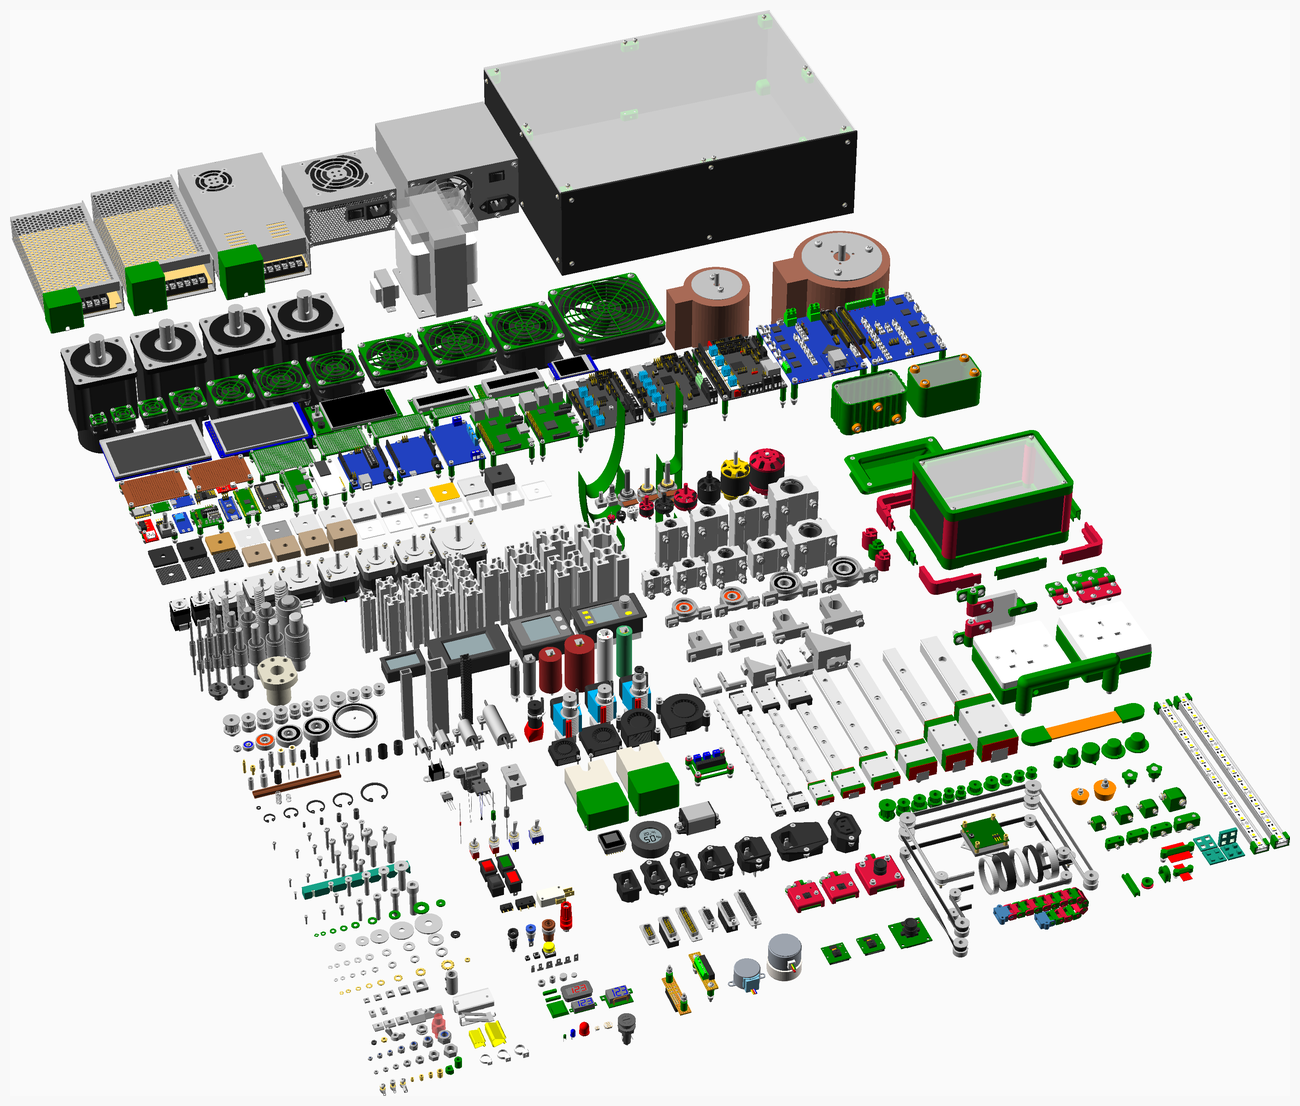
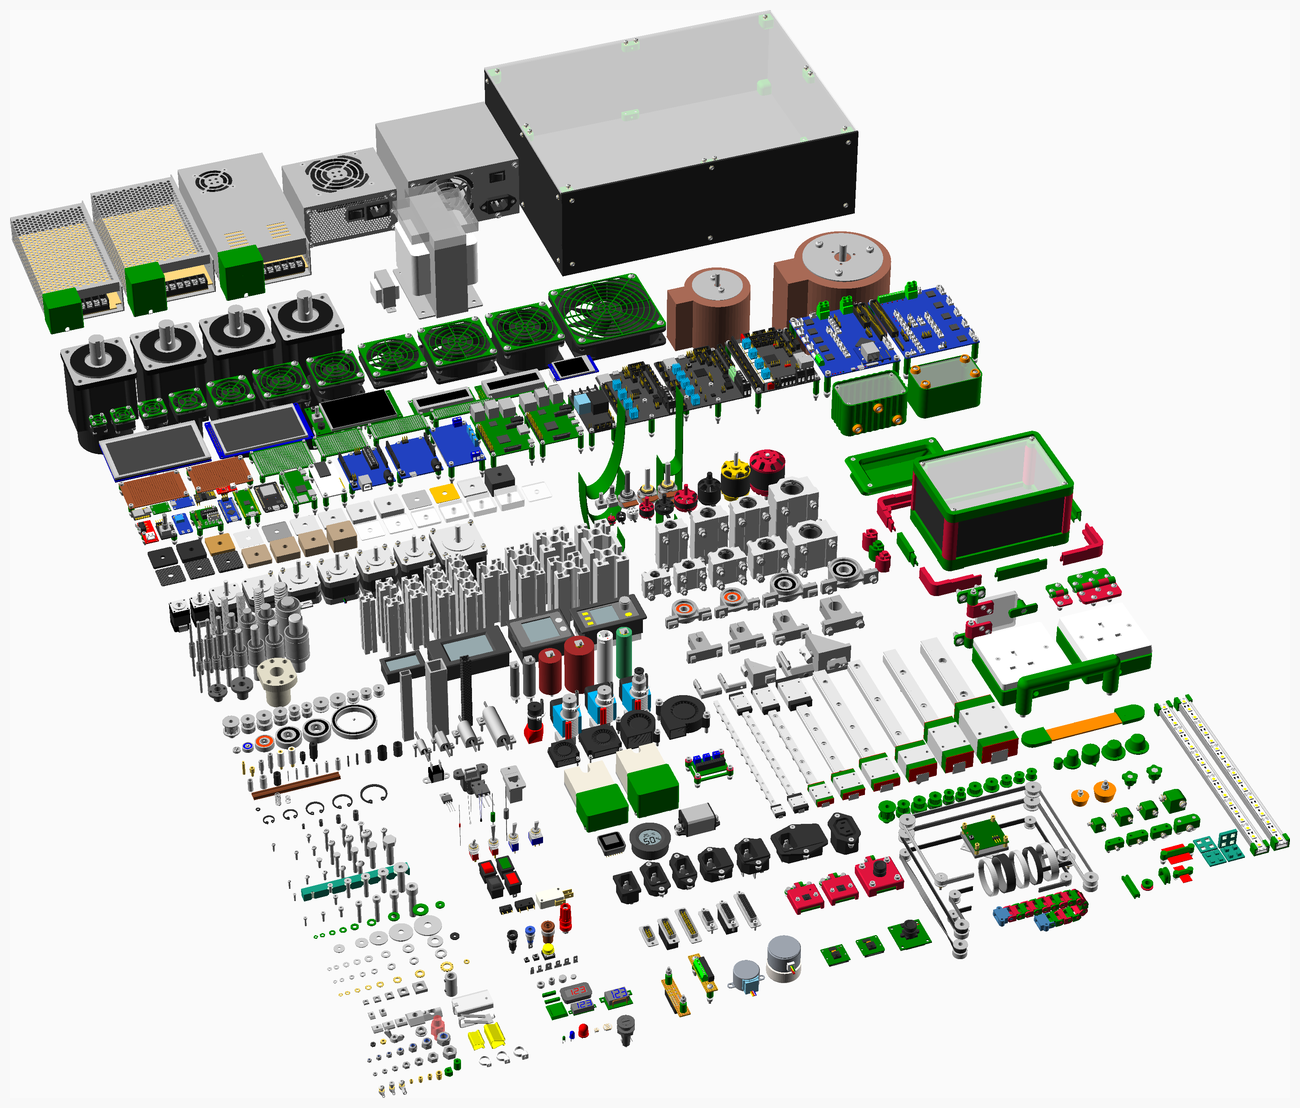
Added test for terminals to get documentation. Updated images and readme. Note BigTreeTech Relay Module v1.2 PCB added.

diff --git a/readme.md b/readme.md
@@ -38,15 +38,15 @@ A list of changes classified as breaking, additions or fixes is maintained in [C
 <tr><td> <a href = "#Components">Components</a> </td><td> <a href = "#Nuts">Nuts</a> </td><td> <a href = "#Springs">Springs</a> </td><td> <a href = "#Knob">Knob</a> </td><td> <a href = "#Rounded_cylinder">Rounded_cylinder</a> </td><td></td></tr>
 <tr><td> <a href = "#DIP">DIP</a> </td><td> <a href = "#O_ring">O_ring</a> </td><td> <a href = "#Stepper_motors">Stepper_motors</a> </td><td> <a href = "#PCB_mount">PCB_mount</a> </td><td> <a href = "#Rounded_polygon">Rounded_polygon</a> </td><td></td></tr>
 <tr><td> <a href = "#D_connectors">D_connectors</a> </td><td> <a href = "#Opengrab">Opengrab</a> </td><td> <a href = "#Swiss_clips">Swiss_clips</a> </td><td> <a href = "#PSU_shroud">PSU_shroud</a> </td><td> <a href = "#Rounded_triangle">Rounded_triangle</a> </td><td></td></tr>
-<tr><td> <a href = "#Displays">Displays</a> </td><td> <a href = "#PCB">PCB</a> </td><td> <a href = "#Toggles">Toggles</a> </td><td> <a href = "#Pocket_handle">Pocket_handle</a> </td><td> <a href = "#Sector">Sector</a> </td><td></td></tr>
-<tr><td> <a href = "#Extrusion_brackets">Extrusion_brackets</a> </td><td> <a href = "#PCBs">PCBs</a> </td><td> <a href = "#Transformers">Transformers</a> </td><td> <a href = "#Press_fit">Press_fit</a> </td><td> <a href = "#Sweep">Sweep</a> </td><td></td></tr>
-<tr><td> <a href = "#Extrusions">Extrusions</a> </td><td> <a href = "#PSUs">PSUs</a> </td><td> <a href = "#Tubings">Tubings</a> </td><td> <a href = "#Printed_box">Printed_box</a> </td><td> <a href = "#Thread">Thread</a> </td><td></td></tr>
-<tr><td> <a href = "#Fans">Fans</a> </td><td> <a href = "#Panel_meters">Panel_meters</a> </td><td> <a href = "#Variacs">Variacs</a> </td><td> <a href = "#Printed_pulleys">Printed_pulleys</a> </td><td> <a href = "#Tube">Tube</a> </td><td></td></tr>
-<tr><td> <a href = "#Fuseholder">Fuseholder</a> </td><td> <a href = "#Pillars">Pillars</a> </td><td> <a href = "#Veroboard">Veroboard</a> </td><td> <a href = "#Ribbon_clamp">Ribbon_clamp</a> </td><td></td><td></td></tr>
-<tr><td> <a href = "#Geared_steppers">Geared_steppers</a> </td><td> <a href = "#Pillow_blocks">Pillow_blocks</a> </td><td> <a href = "#Washers">Washers</a> </td><td> <a href = "#SSR_shroud">SSR_shroud</a> </td><td></td><td></td></tr>
-<tr><td> <a href = "#Green_terminals">Green_terminals</a> </td><td> <a href = "#Pin_headers">Pin_headers</a> </td><td> <a href = "#Wire">Wire</a> </td><td> <a href = "#Screw_knob">Screw_knob</a> </td><td></td><td></td></tr>
-<tr><td> <a href = "#Hot_ends">Hot_ends</a> </td><td> <a href = "#Potentiometers">Potentiometers</a> </td><td> <a href = "#Zipties">Zipties</a> </td><td> <a href = "#Socket_box">Socket_box</a> </td><td></td><td></td></tr>
-<tr><td> <a href = "#Hygrometer">Hygrometer</a> </td><td> <a href = "#Pulleys">Pulleys</a> </td><td></td><td> <a href = "#Strap_handle">Strap_handle</a> </td><td></td><td></td></tr>
+<tr><td> <a href = "#Displays">Displays</a> </td><td> <a href = "#PCB">PCB</a> </td><td> <a href = "#Terminals">Terminals</a> </td><td> <a href = "#Pocket_handle">Pocket_handle</a> </td><td> <a href = "#Sector">Sector</a> </td><td></td></tr>
+<tr><td> <a href = "#Extrusion_brackets">Extrusion_brackets</a> </td><td> <a href = "#PCBs">PCBs</a> </td><td> <a href = "#Toggles">Toggles</a> </td><td> <a href = "#Press_fit">Press_fit</a> </td><td> <a href = "#Sweep">Sweep</a> </td><td></td></tr>
+<tr><td> <a href = "#Extrusions">Extrusions</a> </td><td> <a href = "#PSUs">PSUs</a> </td><td> <a href = "#Transformers">Transformers</a> </td><td> <a href = "#Printed_box">Printed_box</a> </td><td> <a href = "#Thread">Thread</a> </td><td></td></tr>
+<tr><td> <a href = "#Fans">Fans</a> </td><td> <a href = "#Panel_meters">Panel_meters</a> </td><td> <a href = "#Tubings">Tubings</a> </td><td> <a href = "#Printed_pulleys">Printed_pulleys</a> </td><td> <a href = "#Tube">Tube</a> </td><td></td></tr>
+<tr><td> <a href = "#Fuseholder">Fuseholder</a> </td><td> <a href = "#Pillars">Pillars</a> </td><td> <a href = "#Variacs">Variacs</a> </td><td> <a href = "#Ribbon_clamp">Ribbon_clamp</a> </td><td></td><td></td></tr>
+<tr><td> <a href = "#Geared_steppers">Geared_steppers</a> </td><td> <a href = "#Pillow_blocks">Pillow_blocks</a> </td><td> <a href = "#Veroboard">Veroboard</a> </td><td> <a href = "#SSR_shroud">SSR_shroud</a> </td><td></td><td></td></tr>
+<tr><td> <a href = "#Green_terminals">Green_terminals</a> </td><td> <a href = "#Pin_headers">Pin_headers</a> </td><td> <a href = "#Washers">Washers</a> </td><td> <a href = "#Screw_knob">Screw_knob</a> </td><td></td><td></td></tr>
+<tr><td> <a href = "#Hot_ends">Hot_ends</a> </td><td> <a href = "#Potentiometers">Potentiometers</a> </td><td> <a href = "#Wire">Wire</a> </td><td> <a href = "#Socket_box">Socket_box</a> </td><td></td><td></td></tr>
+<tr><td> <a href = "#Hygrometer">Hygrometer</a> </td><td> <a href = "#Pulleys">Pulleys</a> </td><td> <a href = "#Zipties">Zipties</a> </td><td> <a href = "#Strap_handle">Strap_handle</a> </td><td></td><td></td></tr>
 </table>
 
 ---
@@ -2546,6 +2546,7 @@ PCBs and perfboard with optional components. The shape can be a rectangle with o
 |   1 | `pcb(ArduinoLeonardo)` |  Arduino Leonardo |
 |   1 | `pcb(ArduinoNano)` |  Arduino Nano |
 |   1 | `pcb(ArduinoUno3)` |  Arduino Uno R3 |
+|   1 | `pcb(BTT_RELAY_V1_2)` |  BigTreeTech Relay Module v1.2 |
 |   1 | `pcb(BTT_SKR_E3_TURBO)` |  BigTreeTech SKR E3 Turbo |
 |   1 | `pcb(BTT_SKR_MINI_E3_V2_0)` |  BigTreeTech SKR Mini E3 v2.0 |
 |   1 | `pcb(BTT_SKR_V1_4_TURBO)` |  BigTreeTech SKR v1.4 Turbo |
@@ -2570,7 +2571,7 @@ PCBs and perfboard with optional components. The shape can be a rectangle with o
 |   1 | `molex_254(3)` |  Molex KK header 3 way - not shown |
 |  20 | `nut(M2_nut, nyloc = true)` |  Nut M2 x 1.6mm nyloc |
 |  30 | `nut(M2p5_nut, nyloc = true)` |  Nut M2.5 x 2.2mm nyloc |
-|  28 | `nut(M3_nut, nyloc = true)` |  Nut M3 x 2.4mm nyloc |
+|  32 | `nut(M3_nut, nyloc = true)` |  Nut M3 x 2.4mm nyloc |
 |   8 | `nut(M4_nut, nyloc = true)` |  Nut M4 x 3.2mm nyloc |
 |   1 | `pcb(PI_IO)` |  PI_IO V2 - not shown |
 |   1 | `pcb(PSU12V1A)` |  PSU 12V 1A - not shown |
@@ -2594,8 +2595,8 @@ PCBs and perfboard with optional components. The shape can be a rectangle with o
 |   4 | `screw(M2p5_pan_screw, 20)` |  Screw M2.5 pan x 20mm |
 |   8 | `screw(M2p5_pan_screw, 25)` |  Screw M2.5 pan x 25mm |
 |  10 | `screw(M3_cap_screw, 16)` |  Screw M3 cap x 16mm |
-|  14 | `screw(M3_cap_screw, 30)` |  Screw M3 cap x 30mm |
-|   4 | `screw(M3_cap_screw, 35)` |  Screw M3 cap x 35mm |
+|  13 | `screw(M3_cap_screw, 30)` |  Screw M3 cap x 30mm |
+|   9 | `screw(M3_cap_screw, 35)` |  Screw M3 cap x 35mm |
 |   8 | `screw(M4_cap_screw, 35)` |  Screw M4 cap x 35mm |
 |   1 | `pcb(XIAO)` |  Seeeduino XIAO |
 |   1 | `pcb(TP4056)` |  TP4056 Li-lon Battery charger module |
@@ -2605,7 +2606,7 @@ PCBs and perfboard with optional components. The shape can be a rectangle with o
 |   1 | `pcb(WD2002SJ)` |  WD2002SJ Buck Boost DC-DC converter |
 |  20 | `washer(M2_washer)` |  Washer  M2 x 5mm x 0.3mm |
 |  30 | `washer(M2p5_washer)` |  Washer  M2.5 x 5.9mm x 0.5mm |
-|  28 | `washer(M3_washer)` |  Washer  M3 x 7mm x 0.5mm |
+|  32 | `washer(M3_washer)` |  Washer  M3 x 7mm x 0.5mm |
 |   8 | `washer(M4_washer)` |  Washer  M4 x 9mm x 0.8mm |
 |   1 | `pcb(ZC_A0591)` |  ZC-A0591 ULN2003 driver PCB |
 
@@ -2625,13 +2626,14 @@ PCBs and perfboard with optional components. The shape can be a rectangle with o
 |   2 | pcb_spacer2550.stl |
 |   4 | pcb_spacer2580.stl |
 |   4 | pcb_spacer30160.stl |
-|   5 | pcb_spacer30190.stl |
+|   4 | pcb_spacer30190.stl |
 |   5 | pcb_spacer30200.stl |
-|   4 | pcb_spacer30210.stl |
+|   5 | pcb_spacer30210.stl |
+|   4 | pcb_spacer30220.stl |
 |   4 | pcb_spacer3050.stl |
 |   6 | pcb_spacer3060.stl |
-|   4 | pcb_spacer40220.stl |
 |   4 | pcb_spacer40230.stl |
+|   4 | pcb_spacer40240.stl |
 
 
 <a href="#top">Top</a>
@@ -2888,19 +2890,12 @@ Face order is bottom, top, left, right, front, back.
 | `psu_screw_hole_radius(type)` | Clearance hole for screw, bigger than normal on ATX |
 | `psu_terminals(type)` | How many terminals and the y offset from the back |
 | `psu_width(type)` | Width |
-| `terminal_block_depth(type)` | Total depth |
-| `terminal_block_depth2(type)` | Depth of contact well |
-| `terminal_block_divider(type)` | Width of the dividers |
-| `terminal_block_height(type)` | Height of the dividers |
-| `terminal_block_height2(type)` | Height under the contacts |
-| `terminal_block_pitch(type)` | Pitch between screws |
 
 ### Functions
 | Function | Description |
 |:--- |:--- |
 | `psu_face_transform(type, face)` | Returns a transformation matrix to get to the specified face |
 | `psu_size(type)` | Size |
-| `terminal_block_length(type, ways)` | Total length of terminal block |
 
 ### Modules
 | Module | Description |
@@ -2908,7 +2903,6 @@ Face order is bottom, top, left, right, front, back.
 | `atx_psu_cutout(type, face = f_front)` | Cut out for the rear of an ATX, which is actually f_front! |
 | `psu(type)` | Draw a power supply |
 | `psu_screw_positions(type, face = undef)` | Position children at the screw positions on the preferred mounting face, which can be overridden. |
-| `terminal_block(type, ways)` | Draw a power supply terminal block |
 
 ![psus](tests/png/psus.png)
 
@@ -3936,6 +3930,38 @@ Should be reasonably accurate if not close to fully open.
 |   1 | `sheet(AL6, 40, 20, 1)` |  Aluminium tooling plate 40mm x 20mm x 6mm |
 |   1 | `sheet(glass2, 40, 20, 1)` |  Sheet glass 40mm x 20mm x 2mm |
 |   2 | `swiss_clip(UKPFS1008_10)` |  Swiss picture clip UKPFS1008_10 11mm |
+
+
+<a href="#top">Top</a>
+
+---
+<a name="Terminals"></a>
+## Terminals
+[vitamins/terminal.scad](vitamins/terminal.scad) Implementation.
+
+[tests/terminals.scad](tests/terminals.scad) Code for this example.
+
+### Properties
+| Function | Description |
+|:--- |:--- |
+| `terminal_block_depth(type)` | Total depth |
+| `terminal_block_depth2(type)` | Depth of contact well |
+| `terminal_block_divider(type)` | Width of the dividers |
+| `terminal_block_height(type)` | Height of the dividers |
+| `terminal_block_height2(type)` | Height under the contacts |
+| `terminal_block_pitch(type)` | Pitch between screws |
+
+### Functions
+| Function | Description |
+|:--- |:--- |
+| `terminal_block_length(type, ways)` | Total length of terminal block |
+
+### Modules
+| Module | Description |
+|:--- |:--- |
+| `terminal_block(type, ways)` | Draw a power supply terminal block |
+
+![terminals](tests/png/terminals.png)
 
 
 <a href="#top">Top</a>
